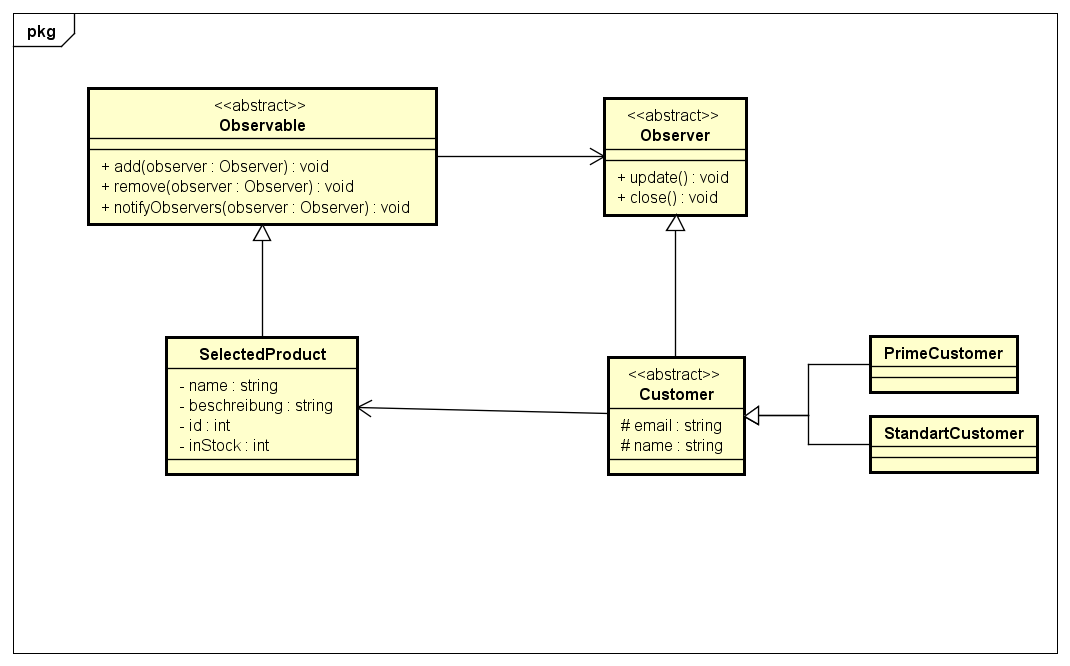
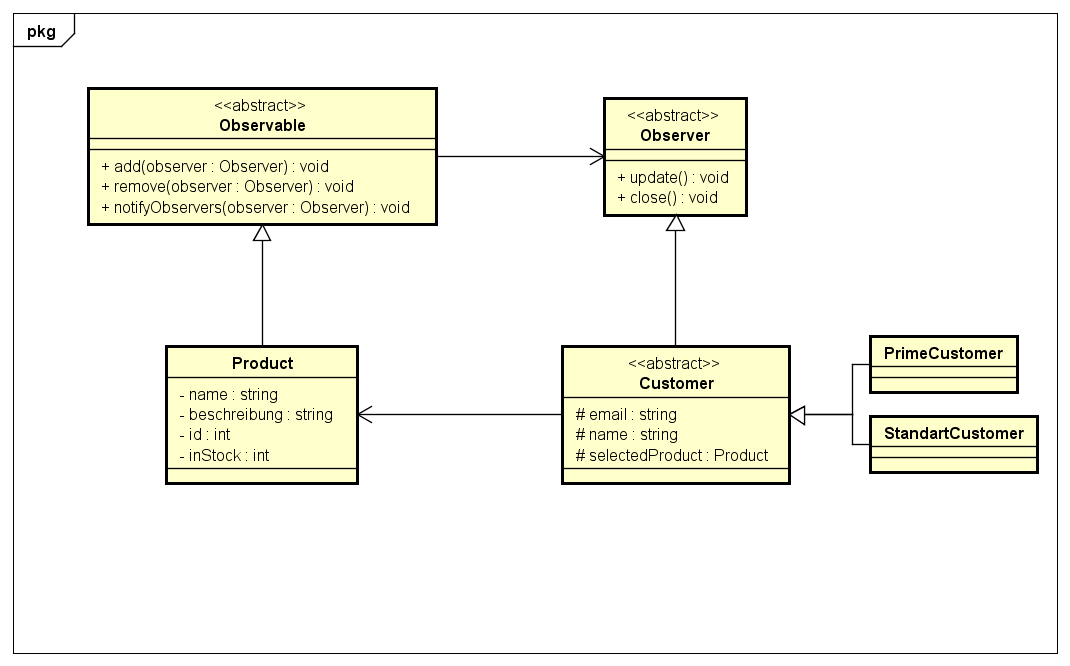
Fixed a mistake in the UML file and added some Code to the Readme

Changed region(s): [[0.1542, 0.4805, 0.8019, 0.7508], [0.771, 0.6607, 0.8019, 0.6907]]

diff --git a/ObserverPattern/Readme.md b/ObserverPattern/Readme.md
@@ -31,3 +31,70 @@ wie ein Newsletter (in unserem fall mittels dem "Notify Me" Button).
 ### UML
 ![Observer UML-Diagramm](ObserverPattern.png "Observer")
 
+
+### Code
+Zu erst erstellen wir unsere abstrakten Klassen:
+
+* Die Klasse Observable
+* Die Klasse Observer
+* Die Klasse Customer
+
+```java
+public abstract class Observable{
+    // Die Liste der angemeldeten Observer
+    protected ArrayList<Observer> observers = new ArrayList();
+
+    /**
+     * @param observer der Observer der angemeldet werden soll
+     */
+    public void add(Observer observer){
+        this.observers.add(observer);
+    }
+
+    /**
+     * @param observer der Observer der abgemeldet werden soll
+     */
+    public void remove(Observer observer){
+        this.observers.remove(observer);
+    }
+
+     /**
+      * Benachrichtigt die Observer, dass der Gegenstand wieder vorhanden
+      */
+     public void notifyObservers(){
+        for(int x = 0; x < observers.size(); x++){
+                observers.get(x).update();
+            }
+        }
+    }
+```
+
+```java
+public abstract class Observer{
+
+    /**
+     * Informiert den Käufer, dass das Produkt wieder vorhanden ist
+     */
+    public abstract void update();
+
+    /**
+     * Meldet den Käufer von der Warteliste ab.
+     */
+    public abstract void close();
+}
+```
+
+```java
+public abstract class Customer extends Observer{
+    protected string email;
+    protected string name;
+    protected Product selectedProduct;
+
+    public Customer(string email, sting name, Product selectedProduct){
+        this.email = email;
+        this.name = name;
+        this.selectedProduct = selectedProduct;
+    }
+
+}
+```
